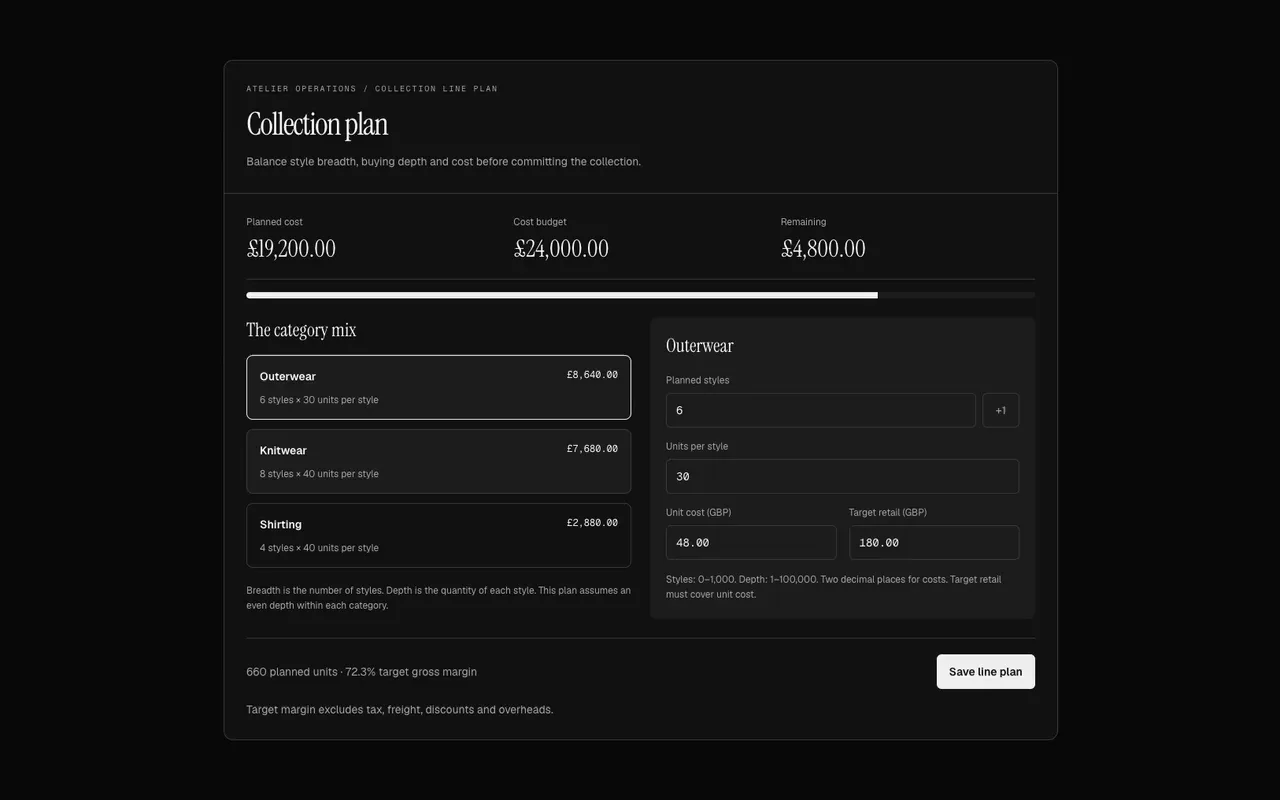
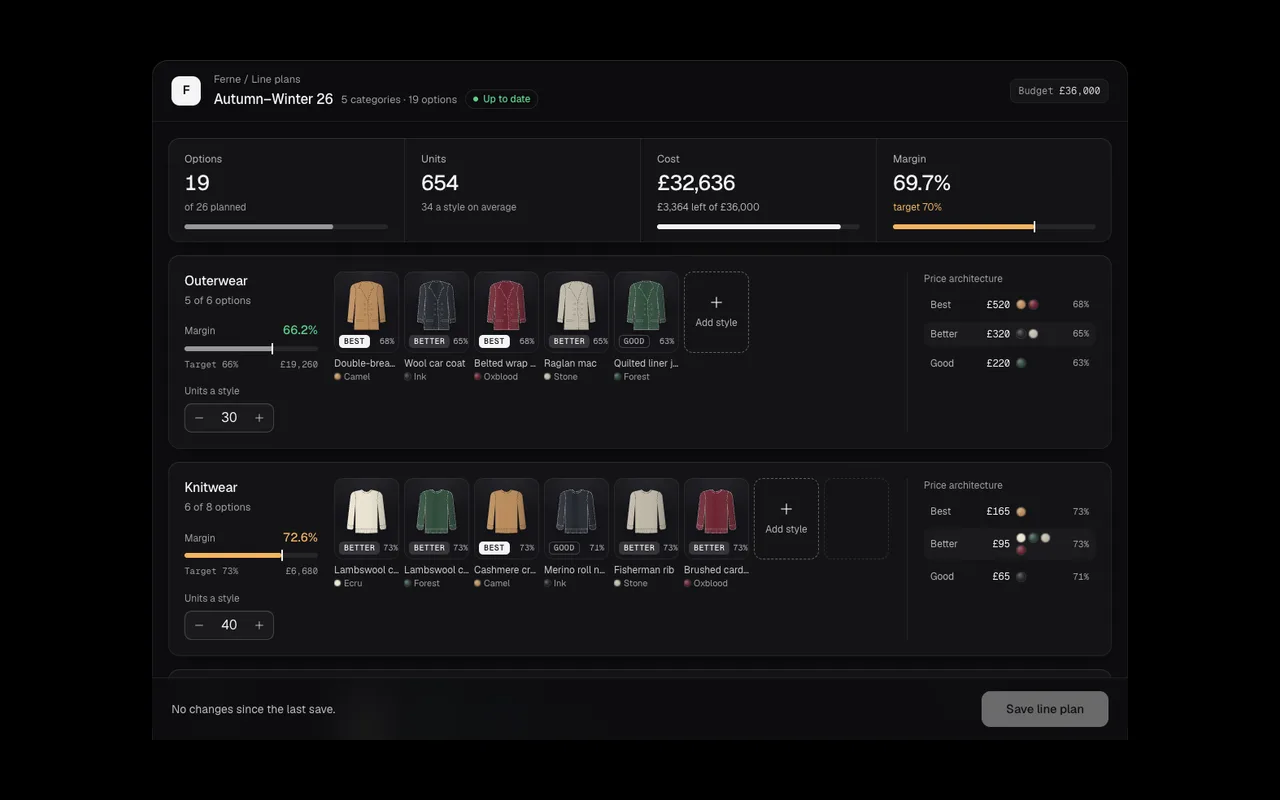
feat(fashion-collection-line-plan): publish plan guidance and workspace regression

diff --git a/docs/review/HANDOFF_TASKS.md b/docs/review/HANDOFF_TASKS.md
@@ -44,6 +44,8 @@ and how to know it's done. Pick any of them up independently. Background, briefs
 
 - Task 6: finished Preorder Planner and removed its parked patch. The demand chart, size allocation and close/reopen receipts now share exact factory constraints. Failed close and reopen callbacks retain the current decision. Its source-fixture browser regression, demo replay, controls, dark/light accessibility, responsive/state/entrance captures and refreshed poster pass. Its new film remains in task 1.
 
+- Task 6: finished Collection Line Plan and removed its parked patch. Garment-level tiers, colourways and quantities retain unsaved replacements and failed saves; retiring controls leave interaction immediately. The source-fixture regression, demo, controls, both-theme accessibility, responsive/state/entrance captures, poster and Fashion Workspace draft-switch/save regression pass. Its new film remains in task 1.
+
 ## Ground rules (read first)
 
 - Two repos. Public: `richawo/Design-components-for-AI-agents` (this one). Pro: `richawo/Design-for-AI`, private, cloned
@@ -61,7 +63,7 @@ and how to know it's done. Pick any of them up independently. Background, briefs
 - Browser checks: `node scripts/check-component.mjs <slug> --base=http://localhost:3100 --no-video --keep-going`
   (screenshots at 1440/768/390 and every control flip; read the screenshots it writes to `test-results/check/<slug>/`).
 
-## 1. Re-record demo videos (136 components)
+## 1. Re-record demo videos (137 components)
 
 Every rebuilt component's poster is current but its catalogue film (`public/previews/<slug>.mp4`) still shows the old
 version. Record them one at a time on an otherwise idle machine; the recorder rejects frame stalls under load.
@@ -112,7 +114,7 @@ Slugs:
 `media-trim-timeline`, `navigation-context-rail`, `navigation-lens-dock`, `navigation-stacked-tabs`
 `pixel-halftone-image`, `portfolio-project-reel`, `pricing-seat-simulator`, `pricing-usage-calculator`
 `social-proof-case-ledger`, `text-number-odometer`, `text-optical-weight`, `text-outline-fill`
-`text-path-typesetter`, `finance-budget-variance`, `finance-cashflow-dashboard`, `fashion-preorder-planner`
+`text-path-typesetter`, `finance-budget-variance`, `finance-cashflow-dashboard`, `fashion-preorder-planner`, `fashion-collection-line-plan`
 
 ## 2. Retake 6 stale posters
 
@@ -221,7 +223,7 @@ see `tests/browser/mobile-accessibility-probe.mjs` for a native example.
 `pricing-usage-calculator`, `social-proof-case-ledger`, `text-number-odometer`, `text-optical-weight`
 `text-outline-fill`, `text-path-typesetter`
 
-## 6. Finish parked rebuilds (six remaining)
+## 6. Finish parked rebuilds (five remaining)
 
 Rebuilt but not shipped; the live components are still the old versions. Each lives in the Pro repo at
 `registry/pro/_wip/<slug>/` with `component.patch`, `guide.json` and sometimes `probe.mjs`. To resume one:
@@ -238,7 +240,7 @@ run the checks, and delete `_wip/<slug>` in the Pro commit that ships it.
 | Slug | What's missing |
 | --- | --- |
 | fashion-preorder-planner | Completed 17 October: source-fixture regression, demo, controls, both-theme accessibility and responsive/state/entrance captures pass; prompts and poster are current. |
-| fashion-collection-line-plan | prompts; probe; poster; check `block-fashion-workspace` renders |
+| fashion-collection-line-plan | Completed 17 October: source-fixture regression/demo, both-theme accessibility and responsive/state/entrance captures pass; prompts/poster current; Fashion Workspace draft/save regression passes. |
 | fashion-merchandising-dashboard | prompts; probe; poster; check `block-fashion-workspace` renders |
 | fashion-size-guide | prompts; the probe's last remount (missing values, empty data) unverified; native-themes probe; poster |
 | scroll-image-curtain | `pro-scroll-probe` "follows native scroll" not yet passing; visual check; poster |

diff --git a/docs/review/STATUS.md b/docs/review/STATUS.md
@@ -1,6 +1,6 @@
 # Review status
 
-152 components are rebuilt (or, for a few, polished), verified and committed. For each: whether its demo video
+153 components are rebuilt (or, for a few, polished), verified and committed. For each: whether its demo video
 needs re-recording, whether its poster is current, and the state of its browser regression probe.
 
 - **Video**: `new` means `public/previews/<slug>.mp4` still shows the old version. Re-record serially on a quiet machine:
@@ -153,7 +153,7 @@ needs re-recording, whether its poster is current, and the state of its browser 
 | `finance-reconciliation` | new | current | pro-industry and demo probes pass on Next; exact currency and matched selection fixed |
 | `finance-scenario-forecast` | new | current | rewritten, passes on suite runner with source fixtures; Next route check pending |
 
-## Fashion suite (5)
+## Fashion suite (6)
 
 | Slug | Video | Poster | Probe |
 | --- | --- | --- | --- |
@@ -161,6 +161,7 @@ needs re-recording, whether its poster is current, and the state of its browser 
 | `fashion-exchange-selector` | new | current | rewritten, passes |
 | `fashion-launch-calendar` | new | current | rewritten, passes |
 | `fashion-preorder-planner` | new | current | source-fixture regression, demo, accessibility and responsive/state/entrance captures pass |
+| `fashion-collection-line-plan` | new | current | source-fixture regression/demo, both-theme accessibility, responsive/state/entrance captures and workspace draft/save checks pass |
 | `fashion-wholesale-order` | new | current | rewritten, passes |
 
 ## Commerce suite (4)
